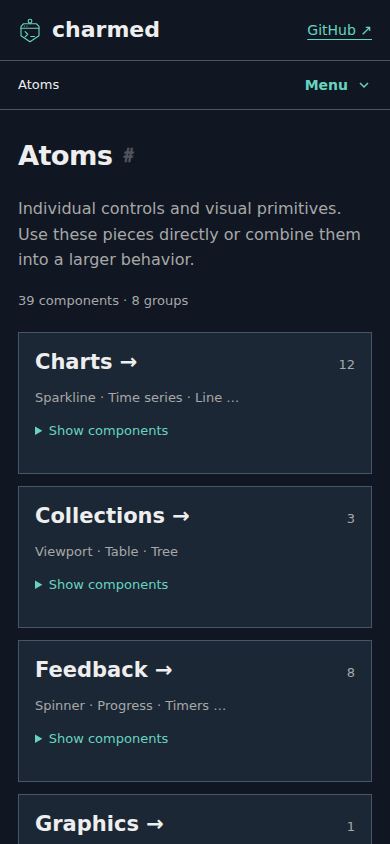
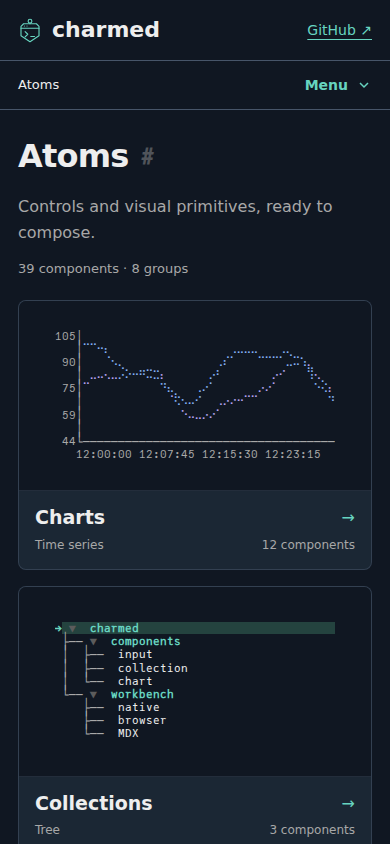
docs: show native examples on category cards

diff --git a/workbench/site/style.css b/workbench/site/style.css
@@ -208,23 +208,26 @@ nav .nav-family-link { font-weight: 400; color: var(--muted); }
 .component-subheading h5 { margin: 0; font-size: 17px; }
 
 /* Category overviews and focused capability pages share the compiled catalog. */
-.catalog-intro { margin-bottom: 28px; scroll-margin-top: 4.5rem; }
-.catalog-intro .eyebrow { margin-top: 0; }
-.catalog-description { color: var(--muted); font-size: 18px; max-width: 65ch; }
+.catalog-intro { margin-bottom: 24px; scroll-margin-top: 4.5rem; }
+.catalog-intro .eyebrow { margin: 0 0 10px; font-size: 12px; }
+.catalog-intro h1 { font-size: clamp(32px,4vw,44px); margin: 0 0 16px; }
+.catalog-description { color: var(--muted); font-size: 17px; max-width: 62ch; margin: 0 0 14px; }
 .catalog-count { color: var(--muted); font-size: 13px; }
 .catalog-breadcrumb { margin: 0 0 12px; color: var(--muted); font-size: 14px; }
-.category-groups { display: grid; grid-template-columns: repeat(2, minmax(0, 1fr)); align-items: start; gap: 16px; margin: 28px 0 40px; }
-.group-card { min-width: 0; padding: 20px; border: 1px solid var(--line); background: var(--surface); }
-.group-card-heading { display: flex; justify-content: space-between; align-items: baseline; gap: 12px; }
-.group-card-heading h2 { margin: 0; font-size: 21px; }
-.group-card-heading h2 a { color: var(--text); text-decoration: none; }
-.group-card-heading h2 a:hover { color: var(--accent); }
-.group-card-heading > span { color: var(--muted); font-size: 13px; }
-.group-card-preview { color: var(--muted); font-size: 13px; margin: 12px 0 4px; }
-.group-contents { padding: 0; margin: 0; border: 0; background: transparent; }
-.group-contents summary { font-size: 13px; padding: 8px 0; }
-.group-card ul { padding: 0; margin: 12px 0 0; list-style: none; }
-.group-card li a { display: block; padding: 5px 0; text-decoration: none; font-size: 14px; }
+.category-groups { display: grid; grid-template-columns: repeat(2, minmax(0, 1fr)); gap: 24px; margin: 28px 0 40px; }
+.group-card { display: block; min-width: 0; overflow: hidden; border: 1px solid color-mix(in srgb, var(--line) 55%, transparent); border-radius: 8px; background: var(--surface); color: var(--text); text-decoration: none; transition: border-color .15s, background .15s; }
+.group-card:hover { border-color: var(--accent); background: color-mix(in srgb, var(--surface) 90%, var(--accent)); }
+.group-card:focus-visible { outline-offset: 4px; }
+.group-specimen { display: grid; place-items: center; height: 216px; padding: 18px; container-type: inline-size; overflow: hidden; background: var(--bg); border-bottom: 1px solid color-mix(in srgb, var(--line) 35%, transparent); }
+.group-specimen pre { width: max-content; max-width: 100%; border: 0; background: transparent; padding: 0; margin: 0; overflow: hidden; white-space: pre; font-size: clamp(9px,4cqw,11.5px); line-height: 1.25; pointer-events: none; }
+.group-card-body { padding: 18px 20px; }
+.group-card-heading { display: flex; justify-content: space-between; align-items: center; gap: 12px; }
+.group-card-heading h2 { margin: 0; font-size: 19px; }
+.group-card-arrow { color: var(--accent); transition: transform .15s; }
+.group-card:hover .group-card-arrow { transform: translateX(3px); }
+.group-card-caption { display: flex; align-items: baseline; justify-content: space-between; flex-wrap: wrap; gap: 4px 16px; margin: 5px 0 0; font-size: 12px; color: var(--muted); }
+@media(prefers-reduced-motion: reduce) { .group-card, .group-card-arrow { transition: none; } .group-card:hover .group-card-arrow { transform: none; } }
+@media(max-width:1000px) { .category-groups { grid-template-columns: 1fr; } }
 .group-jump-links { display: flex; flex-wrap: wrap; gap: 8px; padding: 0; margin: 24px 0; list-style: none; }
 .group-jump-links a { display: block; padding: 5px 12px; border: 1px solid var(--line); background: var(--surface); text-decoration: none; font-size: 13px; }
 .component > h2 { font-size: 24px; margin: 0 0 12px; }
@@ -239,11 +242,13 @@ nav .nav-group { font-size: 13px; padding-block: 5px; }
   .catalog-intro { margin-bottom: 20px; }
   .catalog-intro .eyebrow { display: none; }
   .catalog-description { font-size: 16px; }
-  .category-groups { grid-template-columns: 1fr; gap: 12px; margin-top: 20px; }
-  .group-card { padding: 16px; }
-  .group-card-heading h2 { margin-top: 0; font-size: 21px; }
-  .group-contents summary { min-height: 44px; }
-  .group-card li a, .group-jump-links a { min-height: 44px; display: flex; align-items: center; }
+  .category-groups { grid-template-columns: 1fr; gap: 16px; margin-top: 20px; }
+  .group-specimen { height: 190px; padding: 16px; }
+  .group-specimen pre { font-size: clamp(9px,4cqw,10.5px); }
+  .group-card-body { padding: 14px 16px; }
+  .group-card-heading h2 { margin: 0; font-size: 19px; }
+  .group-card-caption { margin: 5px 0 0; }
+  .group-jump-links a { min-height: 44px; display: flex; align-items: center; }
   .catalog-breadcrumb { font-size: 13px; }
   .component > h2 { font-size: 22px; }
   .component-subheading h3 { font-size: 17px; }

diff --git a/workbench/site/page.html b/workbench/site/page.html
@@ -52,11 +52,11 @@
 <p class="catalog-count">{{.Count}} component{{if ne .Count 1}}s{{end}} · {{len .Groups}} group{{if ne (len .Groups) 1}}s{{end}}</p>
 </section>
 <div class="category-groups">
-{{range .Groups}}<section class="group-card">
-<div class="group-card-heading"><h2><a href="{{.File}}">{{.Name}} <span aria-hidden="true">→</span></a></h2><span>{{len .Entries}}</span></div>
-<p class="group-card-preview">{{range $i, $entry := .Entries}}{{if lt $i 3}}{{if $i}} · {{end}}{{name .Title}}{{end}}{{end}}{{if gt (len .Entries) 3}} …{{end}}</p>
-<details class="group-contents"><summary>Show components</summary><ul>{{range .Entries}}<li><a href="{{link .ID}}">{{name .Title}}</a></li>{{end}}</ul></details>
-</section>{{else}}<p>No fixtures are published in this category yet.</p>{{end}}
+{{range .Groups}}<a class="group-card" href="{{.File}}" aria-label="{{.Name}}, {{len .Entries}} component{{if ne (len .Entries) 1}}s{{end}}">
+<div class="group-specimen" data-specimen="{{.Specimen.ID}}" aria-hidden="true"><pre>{{.Specimen.Content}}</pre></div>
+<div class="group-card-body"><div class="group-card-heading"><h2>{{.Name}}</h2><span class="group-card-arrow" aria-hidden="true">→</span></div>
+<p class="group-card-caption"><span>{{.Specimen.Name}}</span><span>{{len .Entries}} component{{if ne (len .Entries) 1}}s{{end}}</span></p></div>
+</a>{{else}}<p>No fixtures are published in this category yet.</p>{{end}}
 </div>
 {{end}}
 {{.Page.Content}}

diff --git a/workbench/specimen.go b/workbench/specimen.go
@@ -1,0 +1,111 @@
+package workbench
+
+import (
+	"fmt"
+	"html/template"
+	"strings"
+
+	"github.com/charmbracelet/x/ansi"
+)
+
+type guideSpecimen struct {
+	ID, Name string
+	Content  template.HTML
+}
+
+type specimenSelection struct {
+	id          string
+	first, rows int
+}
+
+// Select a useful excerpt of a saved native fixture, without its runner chrome.
+// These are presentation choices for the guide, not alternate component renderers.
+func specimenFor(level, family string) specimenSelection {
+	selections := map[string]specimenSelection{
+		"Foundations/layout":   {"foundations/layout", 2, 12},
+		"Foundations/motion":   {"feedback/motion", 2, 3},
+		"Foundations/text":     {"foundations/permissions", 4, 8},
+		"Foundations/theme":    {"foundations/theme", 6, 7},
+		"Atoms/chart":          {"chart/timeseries", 2, 10},
+		"Atoms/collection":     {"collection/tree", 0, 9},
+		"Atoms/feedback":       {"feedback/status", 2, 11},
+		"Atoms/graphics":       {"chart/picture", 2, 11},
+		"Atoms/http":           {"text/http-method", 2, 8},
+		"Atoms/input":          {"input/text", 2, 3},
+		"Atoms/logs":           {"text/observation", 2, 8},
+		"Atoms/text":           {"text/pill", 2, 9},
+		"Molecules/chart":      {"chart/distributions", 0, 5},
+		"Molecules/commands":   {"collection/command-palette", 1, 12},
+		"Molecules/diagram":    {"diagram/state-transitions", 2, 12},
+		"Molecules/feedback":   {"feedback/percent", 2, 3},
+		"Molecules/input":      {"input/field", 0, 3},
+		"Molecules/layout":     {"layout/header", 0, 2},
+		"Molecules/logs":       {"collection/http-log", 0, 10},
+		"Molecules/navigation": {"navigation/tabs", 2, 1},
+		"Organisms/chart":      {"chart/comparison-panel", 0, 12},
+		"Organisms/collection": {"collection/list", 0, 12},
+		"Organisms/form":       {"form/settings", 0, 12},
+		"Organisms/logs":       {"pattern/log-inspector", 0, 8},
+		"Organisms/text":       {"text/markdown", 0, 12},
+		"Templates/pattern":    {"template/application", 0, 12},
+		"Screens/pattern":      {"screen/services", 0, 12},
+	}
+
+	return selections[level+"/"+family]
+}
+
+func addSpecimens(levels []guideLevel) error {
+	for i := range levels {
+		for j := range levels[i].Groups {
+			group := &levels[i].Groups[j]
+			selection := specimenFor(levels[i].Name, group.Family)
+
+			if selection.id == "" {
+				selection = specimenSelection{id: group.Entries[0].ID, rows: 12}
+			}
+
+			found := false
+
+			for _, entry := range group.Entries {
+				if entry.ID != selection.id {
+					continue
+				}
+
+				for _, snapshot := range entry.Snapshots {
+					if snapshot.Name != "Narrow" {
+						continue
+					}
+
+					content, err := specimenContent(snapshot.Frame, selection.first, selection.rows)
+					if err != nil {
+						return fmt.Errorf("catalog specimen %s: %w", entry.ID, err)
+					}
+
+					parts := strings.Split(entry.Title, "/")
+					group.Specimen = guideSpecimen{ID: entry.ID, Name: parts[len(parts)-1], Content: content}
+					found = true
+				}
+			}
+
+			if !found {
+				return fmt.Errorf("catalog group %s is missing a narrow snapshot for %s", group.File, selection.id)
+			}
+		}
+	}
+
+	return nil
+}
+
+func specimenContent(frame string, first, rows int) (template.HTML, error) {
+	plain := strings.Split(ansi.Strip(frame), "\n")
+	if first >= len(plain) || strings.TrimSpace(strings.Join(plain[first:min(first+rows, len(plain))], "\n")) == "" {
+		return "", fmt.Errorf("selected native excerpt is empty")
+	}
+
+	// terminalHTML closes every span before each newline, so excerpts retain
+	// complete markup and exact RGB even when ANSI styling spans source lines.
+	lines := strings.Split(string(terminalHTML(frame)), "\n")
+	last := min(first+rows, len(lines))
+
+	return template.HTML(strings.Join(lines[first:last], "\n")), nil //nolint:gosec // WHY: Each line is complete escaped markup produced by terminalHTML, never caller-supplied HTML.
+}

diff --git a/scripts/test_mobile_guide.py b/scripts/test_mobile_guide.py
@@ -86,12 +86,12 @@ def check_catalog_navigation(browser, site, output):
     errors = []
     page.on("pageerror", lambda error: errors.append(str(error)))
     page.goto(base + "atoms.html")
-    page.locator('.group-card h2 a[href="atoms-chart.html"]').click()
+    page.locator('.group-card[href="atoms-chart.html"]').click()
     page.wait_for_url(base + "atoms-chart.html")
     assert page.locator('.desktop-nav [aria-current="page"]').inner_text() == "Charts"
     assert page.locator(".component").count() >= 10
     page.locator('.desktop-nav .nav-level[href="molecules.html"]').click()
-    page.locator('.group-card h2 a[href="molecules-commands.html"]').click()
+    page.locator('.group-card[href="molecules-commands.html"]').click()
     page.wait_for_url(base + "molecules-commands.html")
     page.locator('.dependency').filter(has_text="input/text").click()
     page.wait_for_url(base + "atoms-input.html#input/text")
@@ -195,6 +195,17 @@ def main():
                 if filename in [level.lower() + ".html" for level in expected_levels]:
                     assert page.locator(".component").count() == 0, "category pages must stay lightweight"
                     assert page.locator(".group-card").count() > 0
+                    assert page.locator(".group-card details, .group-card summary, .group-card button").count() == 0
+                    specimens = page.locator(".group-specimen pre")
+                    assert specimens.count() == page.locator(".group-card").count()
+                    assert all(text.strip() for text in specimens.all_text_contents()), "every group needs a native example"
+                    assert specimens.evaluate_all("""els => els.every(el => {
+                        const sample = el.getBoundingClientRect();
+                        const card = el.parentElement.getBoundingClientRect();
+                        return el.scrollWidth <= el.clientWidth + 1 &&
+                            sample.left >= card.left && sample.right <= card.right &&
+                            sample.top >= card.top && sample.bottom <= card.bottom;
+                    })"""), (filename, width, "clipped specimen")
                     assert page.locator('.desktop-nav [aria-current="page"]').count() == 1
                 if filename.startswith("molecules-"):
                     molecules = page.locator(".component")

diff --git a/story/organisms.go b/story/organisms.go
@@ -175,7 +175,15 @@ func formStory(e Environment) (runtime.Scene, error) {
 		huh.NewConfirm().Title("Enable environment?").Value(&enabled)), huh.NewGroup(
 		huh.NewText().Title("Notes").Value(&note), huh.NewNote().Title("Ready").Description("Your fixture settings are ready to submit.")))
 
-	return &scene{init: f.Init, resize: func(s layout.Size) { f.WithWidth(s.Width).WithHeight(s.Height) }, update: func(msg tea.Msg) tea.Cmd {
+	return &scene{init: f.Init, resize: func(s layout.Size) {
+		f.WithWidth(s.Width).WithHeight(s.Height)
+
+		if e.capture {
+			// Prepare the native group viewport with explicit geometry. Do not execute
+			// focus, terminal queries, or other initialization commands during capture.
+			_, _ = f.Update(tea.WindowSizeMsg{Width: s.Width, Height: s.Height})
+		}
+	}, update: func(msg tea.Msg) tea.Cmd {
 		_, cmd := f.Update(msg)
 		if f.State == huh.StateCompleted {
 			emit(e, map[string]any{"type": "submitted", "name": name, "region": region, "enabled": enabled, "features": features})

diff --git a/workbench/navigation.go b/workbench/navigation.go
@@ -17,6 +17,7 @@ type guideLevel struct {
 type guideGroup struct {
 	Name, Family, File, Anchor string
 	Entries                    []ManifestEntry
+	Specimen                   guideSpecimen
 }
 
 type guideLink struct {
@@ -67,7 +68,7 @@ func levelDescription(level string) string {
 	case "Foundations":
 		return "Shared rules for color, type, spacing, geometry and interaction. Start here to keep every component consistent."
 	case "Atoms":
-		return "Individual controls and visual primitives. Use these pieces directly or combine them into a larger behavior."
+		return "Controls and visual primitives, ready to compose."
 	case "Molecules":
 		return "Small compositions with one purpose: a labeled field, a metric with history, or a searchable command palette."
 	case "Organisms":

diff --git a/story/registry_test.go b/story/registry_test.go
@@ -83,6 +83,22 @@ func TestStoriesDoNotShareState(t *testing.T) {
 	}
 }
 
+func TestFormCaptureContainsFields(t *testing.T) {
+	c := story.DefaultConfig()
+	c.Columns, c.Rows = 40, 16
+
+	frame, err := story.Frame("form/settings", c)
+	if err != nil {
+		t.Fatal(err)
+	}
+
+	for _, field := range []string{"Environment", "Region", "Features"} {
+		if !strings.Contains(ansi.Strip(frame), field) {
+			t.Fatalf("form capture omitted %s: %s", field, ansi.Strip(frame))
+		}
+	}
+}
+
 func TestRejectsInvalidStoryConfiguration(t *testing.T) {
 	c := story.DefaultConfig()
 	c.Columns = 100000

diff --git a/workbench/site.go b/workbench/site.go
@@ -59,6 +59,11 @@ func writeSite(out, root string, entries []ManifestEntry) error {
 		{File: "brand.html", Title: "Brand sheet", Source: "brand.md", Resource: true},
 	}
 	navigation := atomicNavigation(entries)
+
+	if err := addSpecimens(navigation); err != nil {
+		return err
+	}
+
 	pages = append(pages, catalogPages(navigation)...)
 
 	brand := newBrandPalette(theme.New(theme.Dark))

diff --git a/docs/development.md b/docs/development.md
@@ -46,7 +46,7 @@ just docs
 
 Install [just](https://github.com/casey/just#installation) and [ShellCheck](https://github.com/koalaman/shellcheck#installing), then run `just` to list targets. The targets select the module's Go version unless explicitly overridden. `just check` runs ShellCheck and checks formatting, vet, module tidiness, strict Go lint, uncached race tests, and reachable vulnerabilities on Linux and macOS. CI pins ShellCheck to 0.11.0. For a quicker iteration, run `just lint`, which includes ShellCheck; use `just shellcheck`, `just test` or `just vuln` for individual gates and `just fmt path/to/file.go` or `just fix ./path/to/package` for scoped fixes. Existing Go lint debt is in a shrinking baseline: new findings must be fixed, and resolved findings removed with `just ratchet`. Never enlarge the baseline to accept new findings.
 
-The generator writes the static guide to `docs/dist/`, validates source and composition, and preserves terminal output colors. Each atomic level has an overview page; its capability groups have separate pages generated from the registry. Counts, navigation and composition links update with the stories. Existing component, code and variant bookmarks redirect to their new group pages. The responsive browser check covers mobile and desktop layouts, navigation, and fragment links.
+The generator writes the static guide to `docs/dist/`, validates source and composition, and preserves terminal output colors. Each atomic level has a visual overview; its capability groups have separate pages generated from the registry. Overview cards link directly to those pages and show excerpts of saved native snapshots, selected in `workbench/specimen.go`. Counts, navigation and composition links update with the stories. Existing component, code and variant bookmarks redirect to their new group pages. The responsive browser check covers mobile and desktop layouts, navigation, and fragment links.
 
 ## Publish documentation
 
